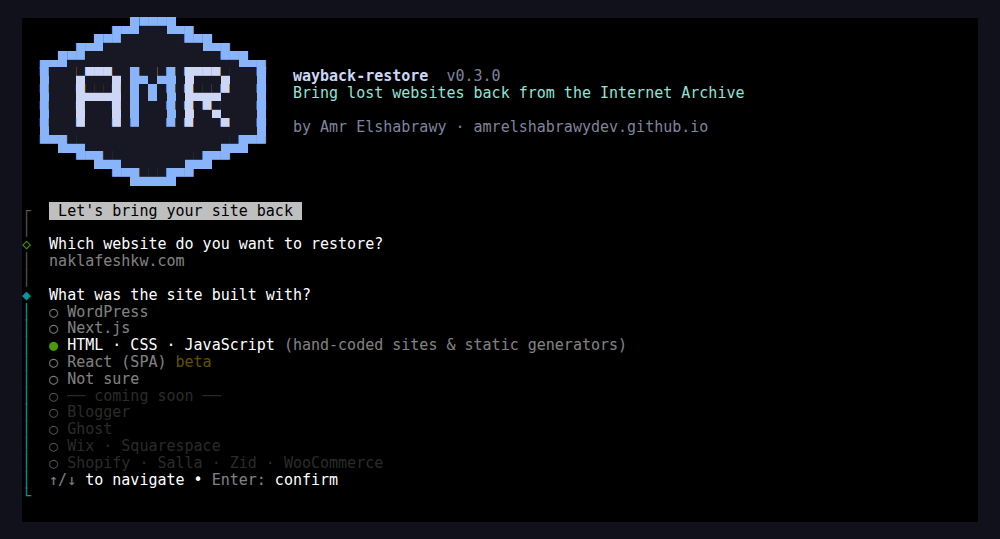
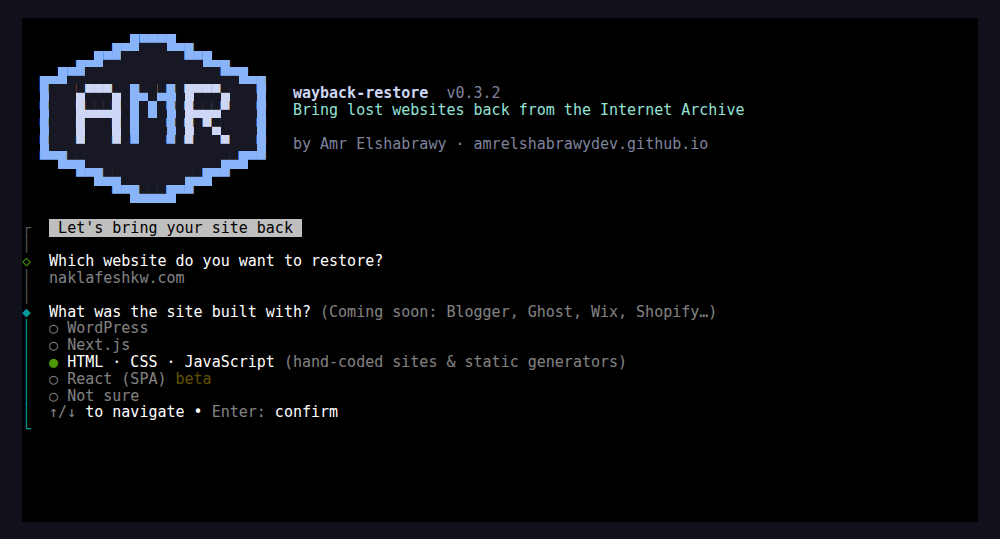
Fix arrow keys on Windows; simpler platform list (0.3.2)
- The banner put stdin into raw mode so a key could skip the animation,
  then switched it back. On Windows that left the prompts that follow
  unable to read arrow keys — the platform question was stuck on
  WordPress. The banner no longer touches stdin (Ctrl+C still restores
  the cursor).
- The platform question lists only the 5 platforms that work; the
  coming-soon ones are one dim line in the question instead of greyed-out
  rows that looked like empty lines.

Claude-Session: https://claude.ai/code/session_013Y4KMnRyEeNGo3KDY61ZeR

Changed region(s): [[0.0, 0.0297, 0.744, 0.9202], [0.0, 0.8905, 0.031, 0.9202]]

diff --git a/test/cli.test.js b/test/cli.test.js
@@ -4,7 +4,7 @@ import { execFile } from "node:child_process";
 import { promisify } from "node:util";
 import { fileURLToPath } from "node:url";
 import { banner, canAnimate, logoLines, playBanner } from "../src/cli/banner.js";
-import { fitLine, humanDate, platformOptions, toCommand, validateDate, validateDomain, validateTable } from "../src/cli/wizard.js";
+import { comingSoon, fitLine, humanDate, platformOptions, toCommand, validateDate, validateDomain, validateTable } from "../src/cli/wizard.js";
 
 const run = promisify(execFile);
 const CLI = fileURLToPath(new URL("../bin/cli.js", import.meta.url));
@@ -32,13 +32,11 @@ test("toCommand rebuilds the equivalent one-line command", () => {
   assert.equal(toCommand({ domain: "a.com", platform: "auto", outDir: "restored", formats: ["json"], images: true }), "npx @amrelshabrawy/wayback-restore a.com");
 });
 
-test("platformOptions: ready platforms selectable, coming-soon ones shown but disabled", () => {
+test("platformOptions: only platforms that work today; the rest in one 'coming soon' line", () => {
   const options = platformOptions();
-  const enabled = options.filter((o) => !o.disabled).map((o) => o.value);
-  assert.deepEqual(enabled, ["wordpress", "nextjs", "static", "react", "auto"]);
-  const soonIndex = options.findIndex((o) => o.value === "__soon");
-  assert.ok(soonIndex > enabled.length - 1);
-  assert.ok(options.slice(soonIndex).every((o) => o.disabled));
+  assert.deepEqual(options.map((o) => o.value), ["wordpress", "nextjs", "static", "react", "auto"]);
+  assert.ok(options.every((o) => !o.disabled), "no greyed-out rows that look empty");
+  assert.match(comingSoon(), /^Coming soon: Blogger, Ghost/);
 });
 
 test("banner shows the logo and name without colour codes when NO_COLOR is set", () => {
@@ -100,15 +98,21 @@ test("logo animation: empty at the start, the full logo at the end", () => {
 test("playBanner prints the static banner when it can't animate", async () => {
   let out = "";
   const stream = { isTTY: false, hasColors: () => false, columns: 100, write: (s) => (out += s) };
-  await playBanner({ version: "1.0.0", stream, input: null });
+  await playBanner({ version: "1.0.0", stream });
   assert.equal(out, banner({ version: "1.0.0", stream }));
   assert.ok(!canAnimate({ isTTY: true, hasColors: () => true }, { CI: "true" }), "never animates in CI");
+});
+
+test("playBanner never touches the keyboard (raw mode broke arrow keys on Windows)", async () => {
+  const { readFileSync } = await import("node:fs");
+  const source = readFileSync(new URL("../src/cli/banner.js", import.meta.url), "utf8");
+  assert.doesNotMatch(source, /setRawMode\(|process\.stdin/);
 });
 
 test("playBanner animates in a terminal and ends on the full banner", async () => {
   let out = "";
   const stream = { isTTY: true, hasColors: () => true, columns: 100, write: (s) => (out += s) };
-  await playBanner({ version: "1.0.0", stream, input: null, duration: 10, frames: 5 });
+  await playBanner({ version: "1.0.0", stream, duration: 10, frames: 5 });
   assert.match(out, /^\x1b\[\?25l/, "hides the cursor");
   assert.match(out, /\x1b\[\?25h$/, "and shows it again");
   assert.equal((out.match(/\x1b\[11A/g) || []).length, 5, "redraws in place");

diff --git a/src/cli/banner.js b/src/cli/banner.js
@@ -168,55 +168,38 @@ export const canAnimate = (stream = process.stdout, env = process.env) =>
   Boolean(stream.isTTY) && hasColor(stream) && (hasTrueColor(stream) || has256(stream)) && !env.CI && !env.WAYBACK_NO_ANIMATION;
 
 /**
- * Print the banner, animated when the terminal allows it (~0.9 s, any key skips).
+ * Print the banner, animated when the terminal allows it (~0.9 s).
+ *
+ * It never touches stdin: switching the keyboard into raw mode and back before
+ * the questions start broke arrow keys in the prompts on Windows.
  * @returns {Promise<void>}
  */
-export async function playBanner({ version, stream = process.stdout, input = process.stdin, duration = 900, frames = 24 } = {}) {
+export async function playBanner({ version, stream = process.stdout, duration = 900, frames = 24 } = {}) {
   if (!canAnimate(stream)) {
     stream.write(banner({ version, stream }));
     return;
   }
 
-  let skipped = false;
-  const rawInput = Boolean(input?.isTTY) && typeof input.setRawMode === "function";
-  const cleanup = () => {
-    if (rawInput) {
-      input.off("data", onKey);
-      input.setRawMode(false);
-      input.pause();
-    }
-    stream.write("\x1b[?25h"); // show the cursor again
+  const showCursor = () => stream.write("\x1b[?25h");
+  // Ctrl+C during the animation: bring the cursor back before quitting
+  const onInterrupt = () => {
+    showCursor();
+    stream.write("\n");
+    process.exit(130);
   };
-  function onKey(key) {
-    skipped = true;
-    // Ctrl+C still quits
-    if (key?.[0] === 3) {
-      cleanup();
-      stream.write("\n");
-      process.exit(130);
-    }
-  }
-
-  if (rawInput) {
-    input.setRawMode(true);
-    input.resume();
-    input.on("data", onKey);
-  }
+  process.once("SIGINT", onInterrupt);
   stream.write("\x1b[?25l"); // hide the cursor while drawing
   try {
     let height = 0;
-    const draw = (t) => {
-      const lines = bannerLines({ version, stream, t });
+    for (let i = 0; i <= frames; i++) {
+      const lines = bannerLines({ version, stream, t: i / frames });
       if (height) stream.write(`\x1b[${height}A`);
       stream.write(`${lines.map((line) => `\r\x1b[2K${line}`).join("\n")}\n`);
       height = lines.length;
-    };
-    for (let i = 0; i <= frames && !skipped; i++) {
-      draw(i / frames);
       await sleep(duration / frames);
     }
-    if (skipped) draw(1);
   } finally {
-    cleanup();
+    process.off("SIGINT", onInterrupt);
+    showCursor();
   }
 }

diff --git a/src/cli/wizard.js b/src/cli/wizard.js
@@ -56,21 +56,18 @@ export function toCommand(o) {
   return `npx @amrelshabrawy/wayback-restore ${args.join(" ")}`;
 }
 
-/** Platform list for the "built with" question: ready ones first, then a dimmed "coming soon" group */
+/** Platform choices for the "built with" question — only the ones that work today */
 export function platformOptions() {
   const tag = (status) => (status === "beta" ? ` ${pc.yellow("beta")}` : "");
-  const ready = PLATFORMS.filter((x) => x.status !== "soon").map((x) => ({
+  return PLATFORMS.filter((x) => x.status !== "soon").map((x) => ({
     value: x.id,
     label: `${x.label}${tag(x.status)}`,
     hint: x.hint,
   }));
-  const soon = PLATFORMS.filter((x) => x.status === "soon").map((x) => ({
-    value: x.id,
-    label: pc.dim(x.label),
-    disabled: true,
-  }));
-  return [...ready, { value: "__soon", label: pc.dim("── coming soon ──"), disabled: true }, ...soon];
 }
+
+/** One readable line about what's coming, instead of greyed-out choices that look like empty rows */
+export const comingSoon = () => `Coming soon: ${PLATFORMS.filter((x) => x.status === "soon").map((x) => x.label.split(" · ")[0]).join(", ")}…`;
 
 /**
  * Shorten text to fit one terminal line. A progress line that wraps can't be
@@ -114,9 +111,8 @@ export async function runWizard({ version }) {
 
   const platform = answer(
     await p.select({
-      message: "What was the site built with?",
+      message: `What was the site built with? ${pc.dim(`(${comingSoon()})`)}`,
       options: platformOptions(),
-      maxItems: 12,
     }),
   );
   if (platform === "react") {
